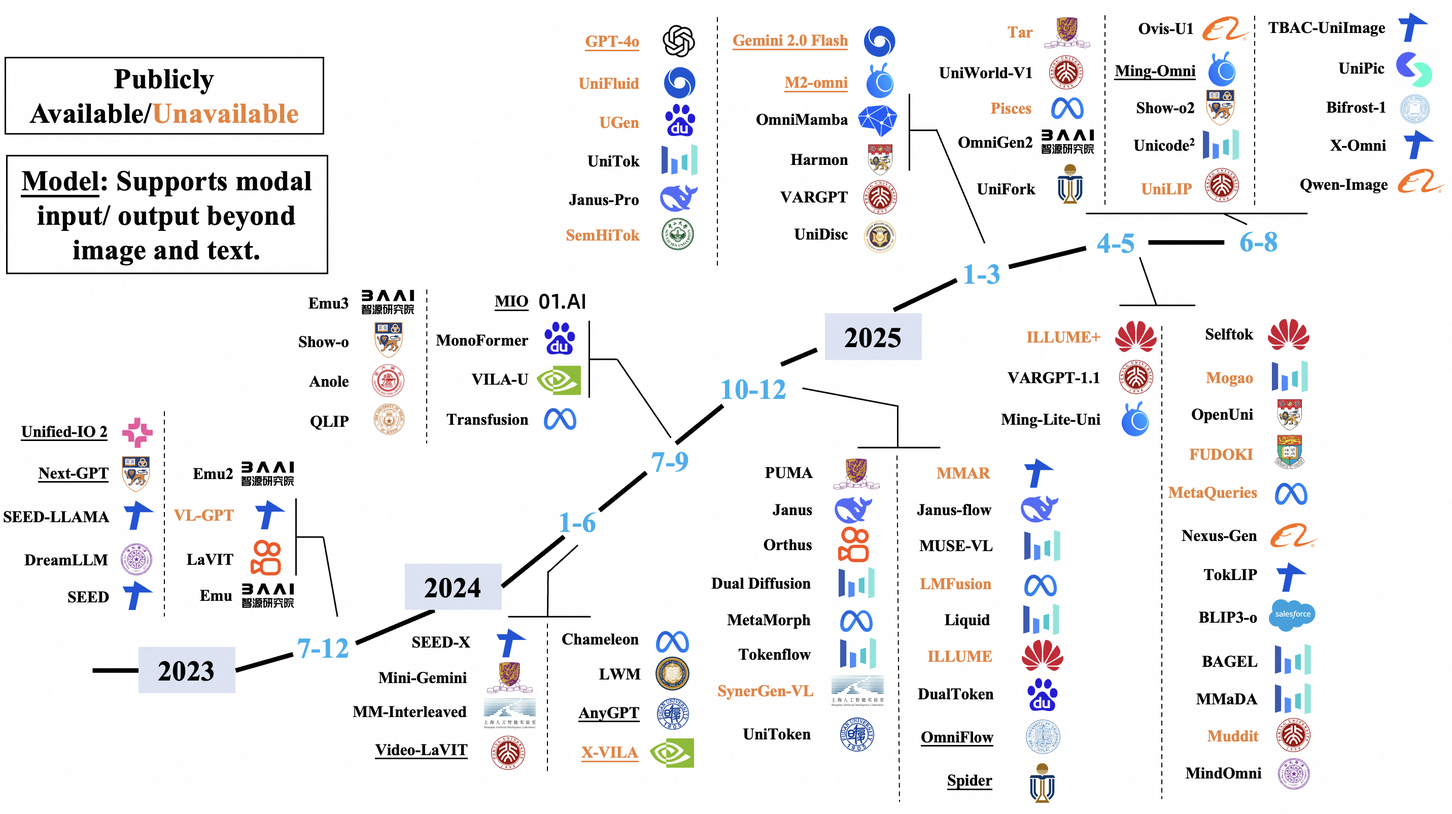
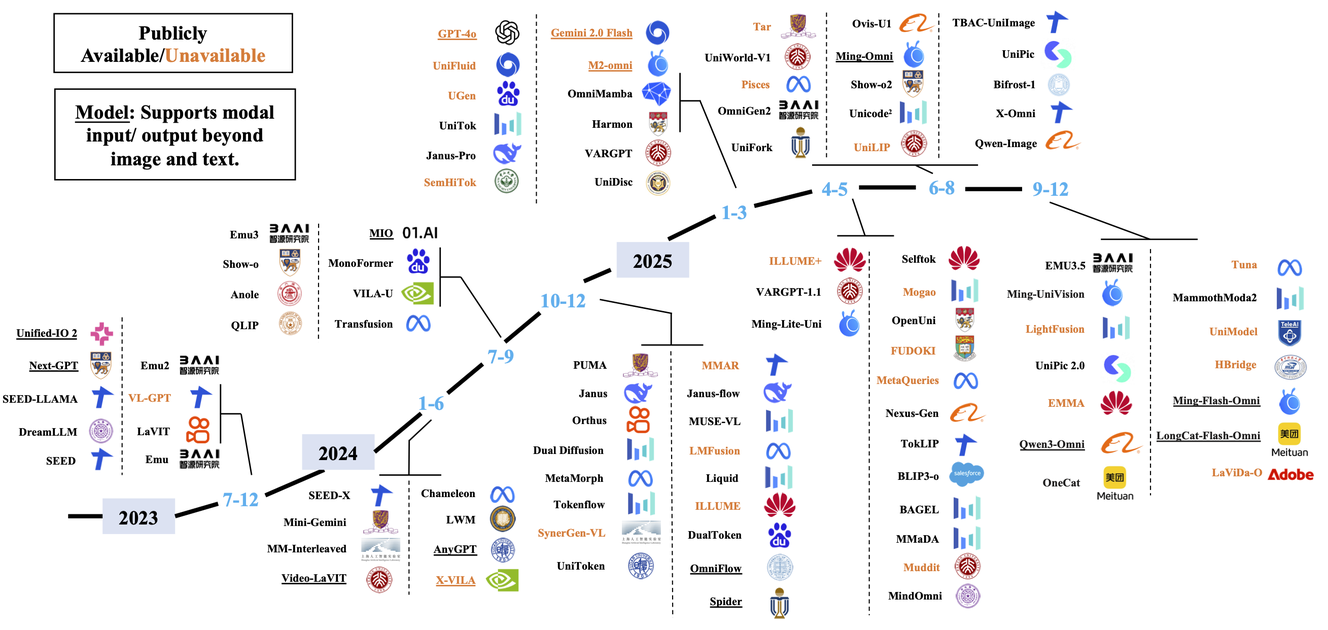
add new papers

diff --git a/README.md b/README.md
@@ -52,6 +52,8 @@ Designed to help researchers and practitioners explore, compare, and build state
 #### Diffusion
 |       Name       | Title                                                                                                                                                                                                                                                           | Venue | Date       | Code                                                         | Demo                                                                 |
 | :-------------------------------------------------------------------------------------------------------------------------------------------------------------------------------------------------------------------------------------------------------------- | :---- | :--------- | :----------------------------------------------------------- | :------------------------------------------------------------------- |:---|
+| UniModel  | [UniModel: A Visual-Only Framework for Unified Multimodal Understanding and Generation](https://arxiv.org/pdf/2511.16917) | arXiv | 2025/11/21 | - | - |
+| Lavida-O | [Lavida-O: Elastic Large Masked Diffusion Models for Unified Multimodal Understanding and Generation](https://arxiv.org/pdf/2509.19244) ![GitHub Repo stars](https://img.shields.io/github/stars/jacklishufan/LaViDa-O?style=social) | arXiv | 2025/09/24 | [Github](https://github.com/jacklishufan/LaViDa-O) | - |
 | Muddit | [Muddit: Liberating Generation Beyond Text-to-Image with a Unified Discrete Diffusion Model](https://arxiv.org/abs/2505.23606) ![GitHub Repo stars](https://img.shields.io/github/stars/M-E-AGI-Lab/Muddit?style=social) | arXiv | 2025/05/23 | [Github](https://github.com/M-E-AGI-Lab/Muddit) | - |
 | FUDOKI | [FUDOKI: Discrete Flow-based Unified Understanding and Generation via Kinetic-Optimal Velocities](https://arxiv.org/abs/2505.20147) | arXiv | 2025/05/20 | - | - |
 |       MMaDA       | [MMaDA: Multimodal Large Diffusion Language Models](https://arxiv.org/abs/2505.15809) ![GitHub Repo stars](https://img.shields.io/github/stars/Gen-Verse/MMaDA?style=social)                                                            | arXiv | 2025/05/21 | [Github](https://github.com/Gen-Verse/MMaDA)     | [Demo](https://huggingface.co/spaces/Gen-Verse/MMaDA)                                                                    |
@@ -65,6 +67,8 @@ Designed to help researchers and practitioners explore, compare, and build state
 
 | Name | Title | Venue | Date | Code | Demo |
 | ---- | ----- | ----- | ---- | ---- | ---- |
+| Emu3.5 | [Emu3.5: Native Multimodal Models are World Learners](https://arxiv.org/abs/2510.26583) ![GitHub Repo stars](https://img.shields.io/github/stars/baaivision/Emu3.5?style=social) | arXiv | 2025/10/30 | [Github](https://github.com/baaivision/Emu3.5) | -    |
+| OneCat | [OneCAT: Decoder-Only Auto-Regressive Model for Unified Understanding and Generation](https://arxiv.org/abs/2509.03498) ![GitHub Repo stars](https://img.shields.io/github/stars/onecat-ai/OneCAT?style=social) | arXiv | 2025/09/03 | [Github](https://github.com/onecat-ai/OneCAT) | -    |
 | Selftok | [Selftok: Discrete Visual Tokens of Autoregression, by Diffusion, and for Reasoning](https://arxiv.org/abs/2505.07538) ![GitHub Repo stars](https://img.shields.io/github/stars/selftok-team/SelftokTokenizer?style=social) | arXiv | 2025/05/12 | [Github](https://github.com/selftok-team/SelftokTokenizer) | -    |
 | TokLIP | [TokLIP: Marry Visual Tokens to CLIP for Multimodal Comprehension and Generation](https://www.arxiv.org/abs/2505.05422) ![GitHub Repo stars](https://img.shields.io/github/stars/TencentARC/TokLIP?style=social) | arXiv | 2025/05/08 | [Github](https://github.com/TencentARC/TokLIP) | -    |
 | Harmon | [Harmonizing Visual Representations for Unified Multimodal Understanding and Generation](https://arxiv.org/abs/2503.21979) ![GitHub Repo stars](https://img.shields.io/github/stars/wusize/Harmon?style=social) | arXiv | 2025/03/27 | [Github](https://github.com/wusize/Harmon) | [Demo](https://huggingface.co/spaces/wusize/Harmon) |
@@ -81,6 +85,8 @@ Designed to help researchers and practitioners explore, compare, and build state
 ##### b-2: Semantic Encoding
 | Name | Title | Venue | Date | Code | Demo |
 | ---- | ----- | ----- | ---- | ---- | ---- |
+| MammothModa2   | [MammothModa2: A Unified AR-Diffusion Framework for Multimodal Understanding and Generation](https://arxiv.org/abs/2511.18262)![GitHub Repo stars](https://img.shields.io/github/stars/bytedance/mammothmoda?style=social)  | arXiv | 2025/11/23 | [GitHub](https://github.com/bytedance/mammothmoda) | -    |
+| Ming-UniVision  | [Ming-UniVision: Joint Image Understanding and Generation with a Unified Continuous Tokenizer](https://arxiv.org/pdf/2510.06590)![GitHub Repo stars](https://img.shields.io/github/stars/inclusionAI/Ming-UniVision?style=social)  | arXiv | 2025/10/08 | [GitHub](https://github.com/inclusionAI/Ming-UniVision) | -    |
 | Bifrost-1 | [Bifrost-1: Bridging Multimodal LLMs and Diffusion Models with Patch-level CLIP Latents](https://arxiv.org/abs/2508.05954)![GitHub Repo stars](https://img.shields.io/github/stars/HL-hanlin/Bifrost-1?style=social)  | arXiv | 2025/08/08 | [GitHub](https://github.com/HL-hanlin/Bifrost-1) | -    |
 | Qwen-Image | [Qwen-Image Technical Report](https://arxiv.org/abs/2508.02324)![GitHub Repo stars](https://img.shields.io/github/stars/QwenLM/Qwen-Image?style=social)  | arXiv | 2025/08/04 | [GitHub](https://github.com/QwenLM/Qwen-Image) | [Demo](https://huggingface.co/spaces/Qwen/Qwen-Image)    |
 | X-Omni | [X-Omni: Reinforcement Learning Makes Discrete Autoregressive Image Generative Models Great Again](https://arxiv.org/abs/2507.22058)![GitHub Repo stars](https://img.shields.io/github/stars/X-Omni-Team/X-Omni?style=social)  | arXiv | 2025/07/29 | [GitHub](https://github.com/X-Omni-Team/X-Omni) | [Demo](https://huggingface.co/collections/X-Omni/x-omni-spaces-6888c64f38446f1efc402de7)    |
@@ -109,9 +115,9 @@ Designed to help researchers and practitioners explore, compare, and build state
 ##### b-3: Learnable Query Encoding
 |       Name       | Title                                                                                                                                                                                                                                                           | Venue | Date       | Code                                                         | Demo                                                                 |
 | :-------------------------------------------------------------------------------------------------------------------------------------------------------------------------------------------------------------------------------------------------------------- | :---- | :--------- | :----------------------------------------------------------- | :------------------------------------------------------------------- |:----|
+|       UniPic 2.0       | [Skywork UniPic 2.0: Building Kontext Model with Online RL for Unified Multimodal Model](https://arxiv.org/abs/2509.04548) ![GitHub Repo stars](https://img.shields.io/github/stars/SkyworkAI/UniPic?style=social) | arXiv | 2025/09/04 | [Github](https://github.com/SkyworkAI/UniPic)            | -        |
 |       TBAC-UniImage       | [TBAC-UniImage: Unified Understanding and Generation by Ladder-Side Diffusion Tuning](https://arxiv.org/abs/2508.08098) ![GitHub Repo stars](https://img.shields.io/github/stars/DruryXu/TBAC-UniImage?style=social) | arXiv | 2025/08/11 | [Github](https://github.com/DruryXu/TBAC-UniImage)            | -        |
 |       UniLIP        | [UniLiP: Adapting CLIP for Unified Multimodal Understanding, Generation and Editing](https://arxiv.org/abs/2507.23278) | arXiv | 2025/07/31 | -          |  -      |
-| Ming-Omni | [Ming-Omni: A Unified Multimodal Model for Perception and Generation](https://arxiv.org/abs/2506.09344) | arXiv | 2025/06/09 | - | -    |
 | OpenUni | [OpenUni: A Simple Baseline for Unified Multimodal Understanding and Generation](https://arxiv.org/abs/2505.23661) ![GitHub Repo stars](https://img.shields.io/github/stars/wusize/OpenUni?style=social) | arXiv | 2025/05/23 | [Github](https://github.com/wusize/OpenUni) | -    |
 | BLIP3-o | [BLIP3-o: A Family of Fully Open Unified Multimodal Models-Architecture, Training and Dataset](https://arxiv.org/abs/2505.09568) ![GitHub Repo stars](https://img.shields.io/github/stars/JiuhaiChen/BLIP3o?style=social) | arXiv | 2025/05/14 | [Github](https://github.com/JiuhaiChen/BLIP3o) | -    |
 |       Ming-Lite-Uni       | [Ming-Lite-Uni: Advancements in Unified Architecture for Natural Multimodal Interaction](https://arxiv.org/abs/2505.02471) ![GitHub Repo stars](https://img.shields.io/github/stars/inclusionAI/Ming?style=social) | arXiv | 2025/05/05 | [Github](https://github.com/inclusionAI/Ming/tree/main/Ming-unify)       | -                                                                    |
@@ -148,6 +154,7 @@ Designed to help researchers and practitioners explore, compare, and build state
 ##### c-1: Pxiel Encoding
 |       Name       | Title                                                                                                                                                                                                                                                           | Venue | Date       | Code                                                         | Demo                                                                 |
 | :-------------------------------------------------------------------------------------------------------------------------------------------------------------------------------------------------------------------------------------------------------------- | :---- | :--------- | :----------------------------------------------------------- | :------------------------------------------------------------------- |:----|
+|       TUNA       | [Tuna: Taming Unified Visual Representations for Native Unified Multimodal Models](https://arxiv.org/pdf/2512.02014)    ![GitHub Repo stars](https://img.shields.io/github/stars/wren93/tuna?style=social)                                                                                                                                                  | arXiv | 2025/12/01 | [Github](https://github.com/wren93/tuna)                             | -                                   
 |       LMFusion       | [LMFusion: Adapting Pretrained Language Models for Multimodal Generation](https://arxiv.org/abs/2412.15188)                                                                                                                                                     | arXiv | 2024/12/19 | -                                | -                                                                    |
 |       MonoFormer       | [MonoFormer: One Transformer for Both Diffusion and Autoregression](https://arxiv.org/abs/2409.16280) ![GitHub Repo stars](https://img.shields.io/github/stars/MonoFormer/MonoFormer?style=social)                                                              | arXiv | 2024/09/24 | [Github](https://github.com/MonoFormer/MonoFormer)           | -                                                                    |
 |       Show-o       | [Show-o: One Single Transformer to Unify Multimodal Understanding and Generation](https://arxiv.org/abs/2408.12528) ![GitHub Repo stars](https://img.shields.io/github/stars/showlab/Show-o?style=social)                                                       | ICLR | 2024/08/22 | [Github](https://github.com/showlab/Show-o)                  | [Demo](https://huggingface.co/spaces/showlab/Show-o)                 |
@@ -156,6 +163,9 @@ Designed to help researchers and practitioners explore, compare, and build state
 ##### c-2: Hybrid Encoding (Pseduo)
 | Name | Title | Venue | Date | Code | Demo |
 | ---- | ----- | ----- | ---- | ---- | ---- |
+| EMMA | [EMMA: Efficient Multimodal Understanding, Generation, and Editing with a Unified Architecture](https://arxiv.org/pdf/2512.04810) ![GitHub Repo stars](https://img.shields.io/github/stars/umm-emma/emma?style=social)  | arXiv | 2025/12/15 | [Github](https://github.com/umm-emma/emma) | - |
+| HBridge | [HBridge: H-Shape Bridging of Heterogeneous Experts for Unified Multimodal Understanding and Generation](https://arxiv.org/pdf/2511.20520)  | arXiv | 2025/11/25 | - | - |
+| LightFusion | [LightFusion: A Light-weighted, Double Fusion Framework for Unified Multimodal Understanding and Generation](https://arxiv.org/abs/2510.22946) ![GitHub Repo stars](https://img.shields.io/github/stars/shubhamsonivfx/LightFusionL?style=social) | arXiv | 2025/10/27 | [Github](https://github.com/shubhamsonivfx/LightFusion/) | - |
 | BAGEL | [Emerging Properties in Unified Multimodal Pretraining](https://arxiv.org/abs/2505.14683) ![GitHub Repo stars](https://img.shields.io/github/stars/bytedance-seed/BAGEL?style=social) | arXiv | 2025/05/20 | [Github](https://github.com/bytedance-seed/BAGEL) | [Demo](https://demo.bagel-ai.org/) |
 | Mogao | [Mogao: An Omni Foundation Model for Interleaved Multi-Modal Generation](https://arxiv.org/abs/2505.05472) | arXiv | 2025/05/08 | -    | -    |
 | JanusFlow | [JanusFlow: Harmonizing Autoregression and Rectified Flow for Unified Multimodal Understanding and Generation](https://arxiv.org/abs/2411.07975) ![GitHub Repo stars](https://img.shields.io/github/stars/deepseek-ai/Janus?style=social) | arXiv | 2024/11/12 | [Github](https://github.com/deepseek-ai/Janus) | [Demo](https://huggingface.co/spaces/deepseek-ai/JanusFlow-1.3B) |
@@ -166,6 +176,10 @@ Designed to help researchers and practitioners explore, compare, and build state
 
 |       Name       | Title                                                                                                                                                                                                                        | Venue     | Date       | Code                                                | Demo |
 | :--------------------------------------------------------------------------------------------------------------------------------------------------------------------------------------------------------------------------- | :-------- | :--------- | :-------------------------------------------------- | :--- |:---|
+|      LongCat-Flash-Omni      | [LongCat-Flash-Omni Technical Report](https://arxiv.org/pdf/2511.00279)      ![GitHub Repo stars](https://img.shields.io/github/stars/meituan-longcat/LongCat-Flash-Omni?style=social)                     | arXiv | 2025/11/28 | [Github](https://github.com/meituan-longcat/LongCat-Flash-Omni) | -    |
+|       Ming-Flash-Omni       | [Ming-Flash-Omni: A Sparse, Unified Architecture for Multimodal Perception and Generation](https://arxiv.org/abs/2510.24821)      ![GitHub Repo stars](https://img.shields.io/github/stars/inclusionAI/Ming?style=social)                     | arXiv | 2025/10/28 | [Github](https://github.com/inclusionAI/Ming) | -    |
+|       Qwen3-Omni       | [Qwen3-Omni Technical Report](https://arxiv.org/abs/2509.17765)      ![GitHub Repo stars](https://img.shields.io/github/stars/QwenLM/Qwen3-Omni?style=social)                     | arXiv | 2025/09/22 | [Github](https://github.com/QwenLM/Qwen3-Omni) | -    |
+| Ming-Omni | [Ming-Omni: A Unified Multimodal Model for Perception and Generation](https://arxiv.org/abs/2506.09344)  ![GitHub Repo stars](https://img.shields.io/github/stars/inclusionAI/Ming?style=social)   | arXiv | 2025/06/09 | [Github](https://github.com/inclusionAI/Ming)  | -    |
 |       M2-omni       | [M2-omni: Advancing Omni-MLLM for Comprehensive Modality Support with Competitive Performance](https://arxiv.org/pdf/2502.18778)                          | arXiv | 2025/02/26 | - | -    |
 |       OmniFlow       | [OmniFlow: Any-to-Any Generation with Multi-Modal Rectified Flows](https://arxiv.org/abs/2412.01169) ![GitHub Repo stars](https://img.shields.io/github/stars/jacklishufan/OmniFlows?style=social)                          | CVPR | 2024/12/02 | [Github](https://github.com/jacklishufan/OmniFlows) | -    |
 |       Spider       | [Spider: Any-to-Many Multimodal LLM](https://arxiv.org/abs/2411.09439) ![GitHub Repo stars](https://img.shields.io/github/stars/Layjins/Spider?style=social)                                                                 | arXiv     | 2024/11/14 | [Github](https://github.com/Layjins/Spider)         | -    |
@@ -263,6 +277,7 @@ Designed to help researchers and practitioners explore, compare, and build state
 #### Multimodal Understanding 
 |Dataset                                                                                | Samples | Paper                                                                                                                                                                                                                                                                                                                                                                                                      | Venue   | Date       |
 | :------------------------------------------------------------------------------------- | :------ | :--------------------------------------------------------------------------------------------------------------------------------------------------------------------------------------------------------------------------------------------------------------------------------------------------------------------------------------------------------------------------------------------------------- | :------ | :--------- |
+| [Honey-Data-15M](https://huggingface.co/datasets/Open-Bee/Honey-Data-15M)                              | 15M     | [Bee: A High-Quality Corpus and Full-Stack Suite to Unlock Advanced Fully Open MLLMs](https://arxiv.org/pdf/2510.13795)                                                                                                                                                                                                                                                                                         | arXiv | 2025/11/11 |
 | [Infinity-MM](https://huggingface.co/datasets/BAAI/Infinity-MM)                              | 40M     | [Infinity-MM: Scaling Multimodal Performance with Large-Scale and High-Quality Instruction Data](https://arxiv.org/pdf/2410.18558)                                                                                                                                                                                                                                                                                         | arXiv | 2024/10/24 |
 | [LLaVA-OneVision](https://huggingface.co/datasets/lmms-lab/LLaVA-OneVision-Data)                              | 4.8M     | [LLaVA-OneVision: Easy Visual Task Transfer](https://arxiv.org/pdf/2408.03326)                                                                                                                                                                                                                                                                                         | TMLR | 2024/08/06 |
 | [Cambrian-10M](https://huggingface.co/datasets/nyu-visionx/Cambrian-10M)                      | 10M    | [Cambrian-1: A Fully Open, Vision-Centric Exploration of Multimodal LLMs](https://arxiv.org/abs/2406.16860)                                                                                                                                                                                                                                                                                                    | NeurIPS    | 2024/06/24 |
@@ -281,7 +296,10 @@ Designed to help researchers and practitioners explore, compare, and build state
 #### Text-to-Image  
 | Dataset                                                                                | Samples | Paper                                                                                                                                                                                                                                                                                                                                                                                                      | Venue   | Date       |
 | :------------------------------------------------------------------------------------- | :------ | :--------------------------------------------------------------------------------------------------------------------------------------------------------------------------------------------------------------------------------------------------------------------------------------------------------------------------------------------------------------------------------------------------------- | :------ | :--------- |
+| [FLUX-Reason-6M](https://huggingface.co/datasets/LucasFang/FLUX-Reason-6M)                                | 6M     | [FLUX-Reason-6M & PRISM-Bench: A Million-Scale Text-to-Image Reasoning Dataset and Comprehensive Benchmark](https://arxiv.org/pdf/2509.09680)                                                                                                                                                                                                                                                                              | arXiv   | 2025/09/11 |
 | [Echo-4o-Image](https://huggingface.co/datasets/Yejy53/Echo-4o-Image)                                | 106K     | [Echo-4o: Harnessing the Power of GPT-4o Synthetic Images for Improved Image Generation](https://www.arxiv.org/abs/2508.09987)                                                                                                                                                                                                                                                                              | arXiv   | 2025/08/13 |
+| [Poster100K](https://huggingface.co/datasets/PosterCraft/Poster100K)                                | 100K     | [PosterCraft: Rethinking High-Quality Aesthetic Poster Generation in a Unified Framework](https://arxiv.org/pdf/2506.10741)                                                                                                                                                                                                                                                                              | arXiv   | 2025/06/12 |
+| [Text-Render-2M](https://huggingface.co/datasets/PosterCraft/Text-Render-2M)                                | 2M     | [PosterCraft: Rethinking High-Quality Aesthetic Poster Generation in a Unified Framework](https://arxiv.org/pdf/2506.10741)                                                                                                                                                                                                                                                                              | arXiv   | 2025/06/12 |
 | [ShareGPT-4o-Image](https://huggingface.co/datasets/FreedomIntelligence/ShareGPT-4o-Image)                                | 45K     | [ShareGPT-4o-Image: Aligning Multimodal Models with GPT-4o-Level Image Generation](https://arxiv.org/pdf/2506.18095)                                                                                                                                                                                                                                                                              | arXiv   | 2025/06/22 |
 | [BLIP3o-60k](https://huggingface.co/datasets/BLIP3o/BLIP3o-60k)                   | 60K     | [BLIP3-o: A Family of Fully Open Unified Multimodal Models—Architecture, Training and Dataset](https://arxiv.org/pdf/2505.09568)                                                                                                                                                                                                                                                                       | arXiv    | 2025/05/14 |
 | [TextAtlas5M](https://huggingface.co/datasets/CSU-JPG/TextAtlas5M)                   | 5M     | [TextAtlas5M: A Large-scale Dataset for Dense Text Image Generation](https://arxiv.org/pdf/2502.07870)                                                                                                                                                                                                                                                                       | arXiv    | 2025/02/11 |
@@ -311,6 +329,7 @@ Designed to help researchers and practitioners explore, compare, and build state
 #### Image Editing 
 | Dataset                                                                                | Samples | Paper                                                                                                                                                                                                                                                                                                                                                                                                      | Venue   | Date       |
 | :------------------------------------------------------------------------------------- | :------ | :--------------------------------------------------------------------------------------------------------------------------------------------------------------------------------------------------------------------------------------------------------------------------------------------------------------------------------------------------------------------------------------------------------- | :------ | :--------- |
+| [Pico-Banana-400K](https://github.com/apple/pico-banana-400k)                      | 400K     | [Pico-Banana-400K: A Large-Scale Dataset for Text-Guided Image Editing](https://arxiv.org/pdf/2510.19808)                                                                                                                                                                                                                                                                                                       | arXiv | 2025/10/22 |
 | [X2Edit](https://huggingface.co/datasets/OPPOer/X2Edit-Dataset)                      | 3.7M      | [X2Edit: Revisiting Arbitrary-Instruction Image Editing through Self-Constructed Data and Task-Aware Representation Learning](https://arxiv.org/abs/2508.07607)                                                                                                                                                                                                                                                                                                       | arXiv | 2025/08/11 |
 | [ShareGPT-4o-Image (Editing)](https://huggingface.co/datasets/FreedomIntelligence/ShareGPT-4o-Image)                      | 46K      | [ShareGPT-4o-Image: Aligning Multimodal Models with GPT-4o-Level Image Generation](https://arxiv.org/pdf/2506.18095)                                                                                                                                                                                                                                                                                                       | arXiv | 2025/06/22 |
 | [ByteMorph-6M](https://huggingface.co/datasets/ByteDance-Seed/BM-6M)                      | 6M      | [ByteMorph: Benchmarking Instruction-Guided Image Editing with Non-Rigid Motions](https://arxiv.org/pdf/2506.03107)                                                                                                                                                                                                                                                                                                       | arXiv | 2025/06/03 |
@@ -337,6 +356,7 @@ Designed to help researchers and practitioners explore, compare, and build state
 | Dataset                                                                                | Samples | Paper                                                                                                                                                                                                                                                                                                                                                                                                      | Venue   | Date       |
 | :------------------------------------------------------------------------------------- | :------ | :--------------------------------------------------------------------------------------------------------------------------------------------------------------------------------------------------------------------------------------------------------------------------------------------------------------------------------------------------------------------------------------------------------- | :------ | :--------- |
 | [Echo-4o-Image](https://huggingface.co/datasets/Yejy53/Echo-4o-Image)                                | 73K     | [Echo-4o: Harnessing the Power of GPT-4o Synthetic Images for Improved Image Generation](https://www.arxiv.org/abs/2508.09987)                                                                                                                                                                                                                                                                              | arXiv   | 2025/08/13 |
+| [MetaQuery Instruct 2.4M ](https://huggingface.co/datasets/xcpan/MetaQuery_Instruct_2.4M)                                | 2.4M     | [Transfer between Modalities with MetaQueries](https://arxiv.org/html/2504.06256v1)                                                                                                                                                                                                                                                                              | arXiv   | 2025/06/24 |
 | [Graph200K](https://huggingface.co/datasets/VisualCloze/Graph200K)                               | 200K     | [VisualCloze: A Universal Image Generation Framework via Visual In-Context Learning](https://arxiv.org/pdf/2504.07960)                                                                                                                                                                                                                                                                                                  | arXiv   | 2025/03/30 |
 | [SynCD](https://huggingface.co/datasets/nupurkmr9/syncd)                               | 95K     | [Generating multi-image synthetic data for text-to-image customization](https://arxiv.org/pdf/2502.01720)                                                                                                                                                                                                                                                                                                  | arXiv   | 2025/02/03 |
 | [X2I-subject-driven](https://huggingface.co/datasets/yzwang/X2I-subject-driven)                   | 2.5M     | [OmniGen: Unified Image Generation](https://arxiv.org/pdf/2409.11340)                                                                                                                                                                                                                                                                       | arXiv    | 2024/12/14 |
